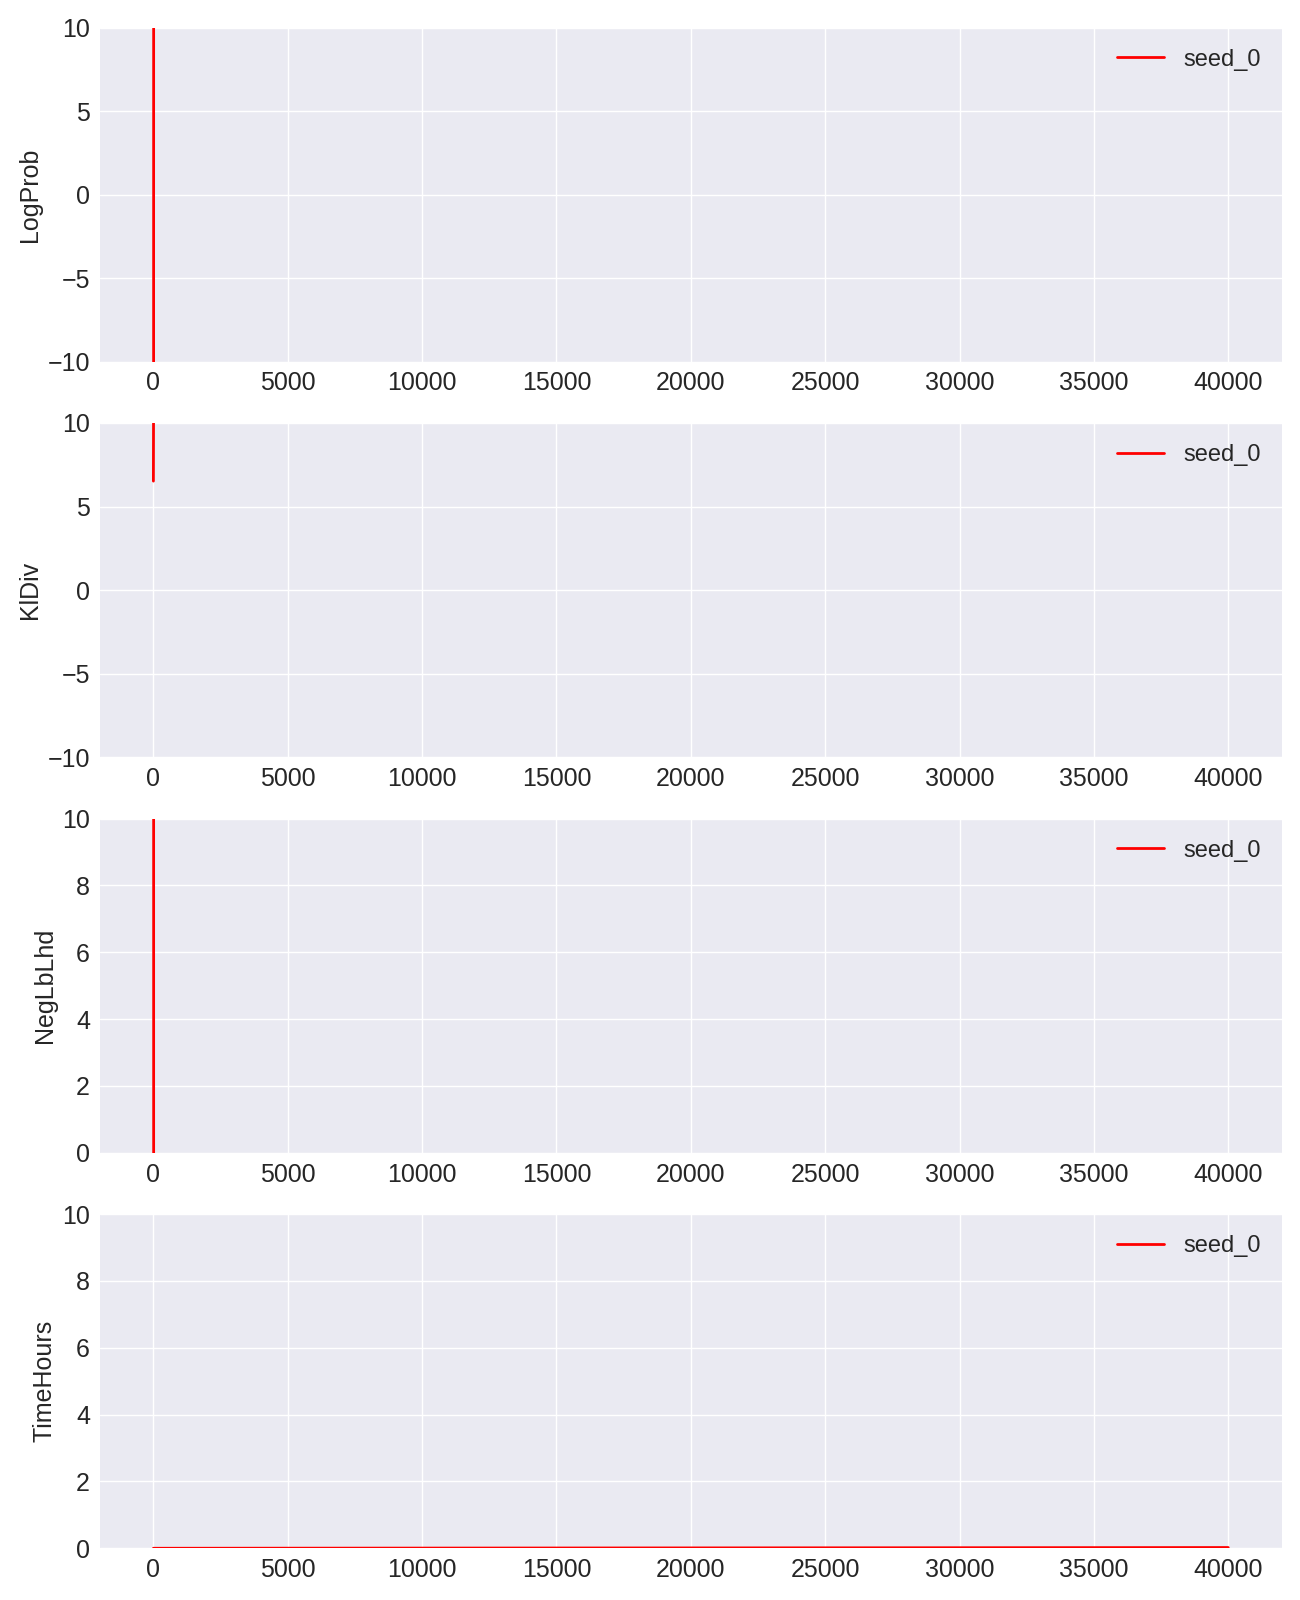
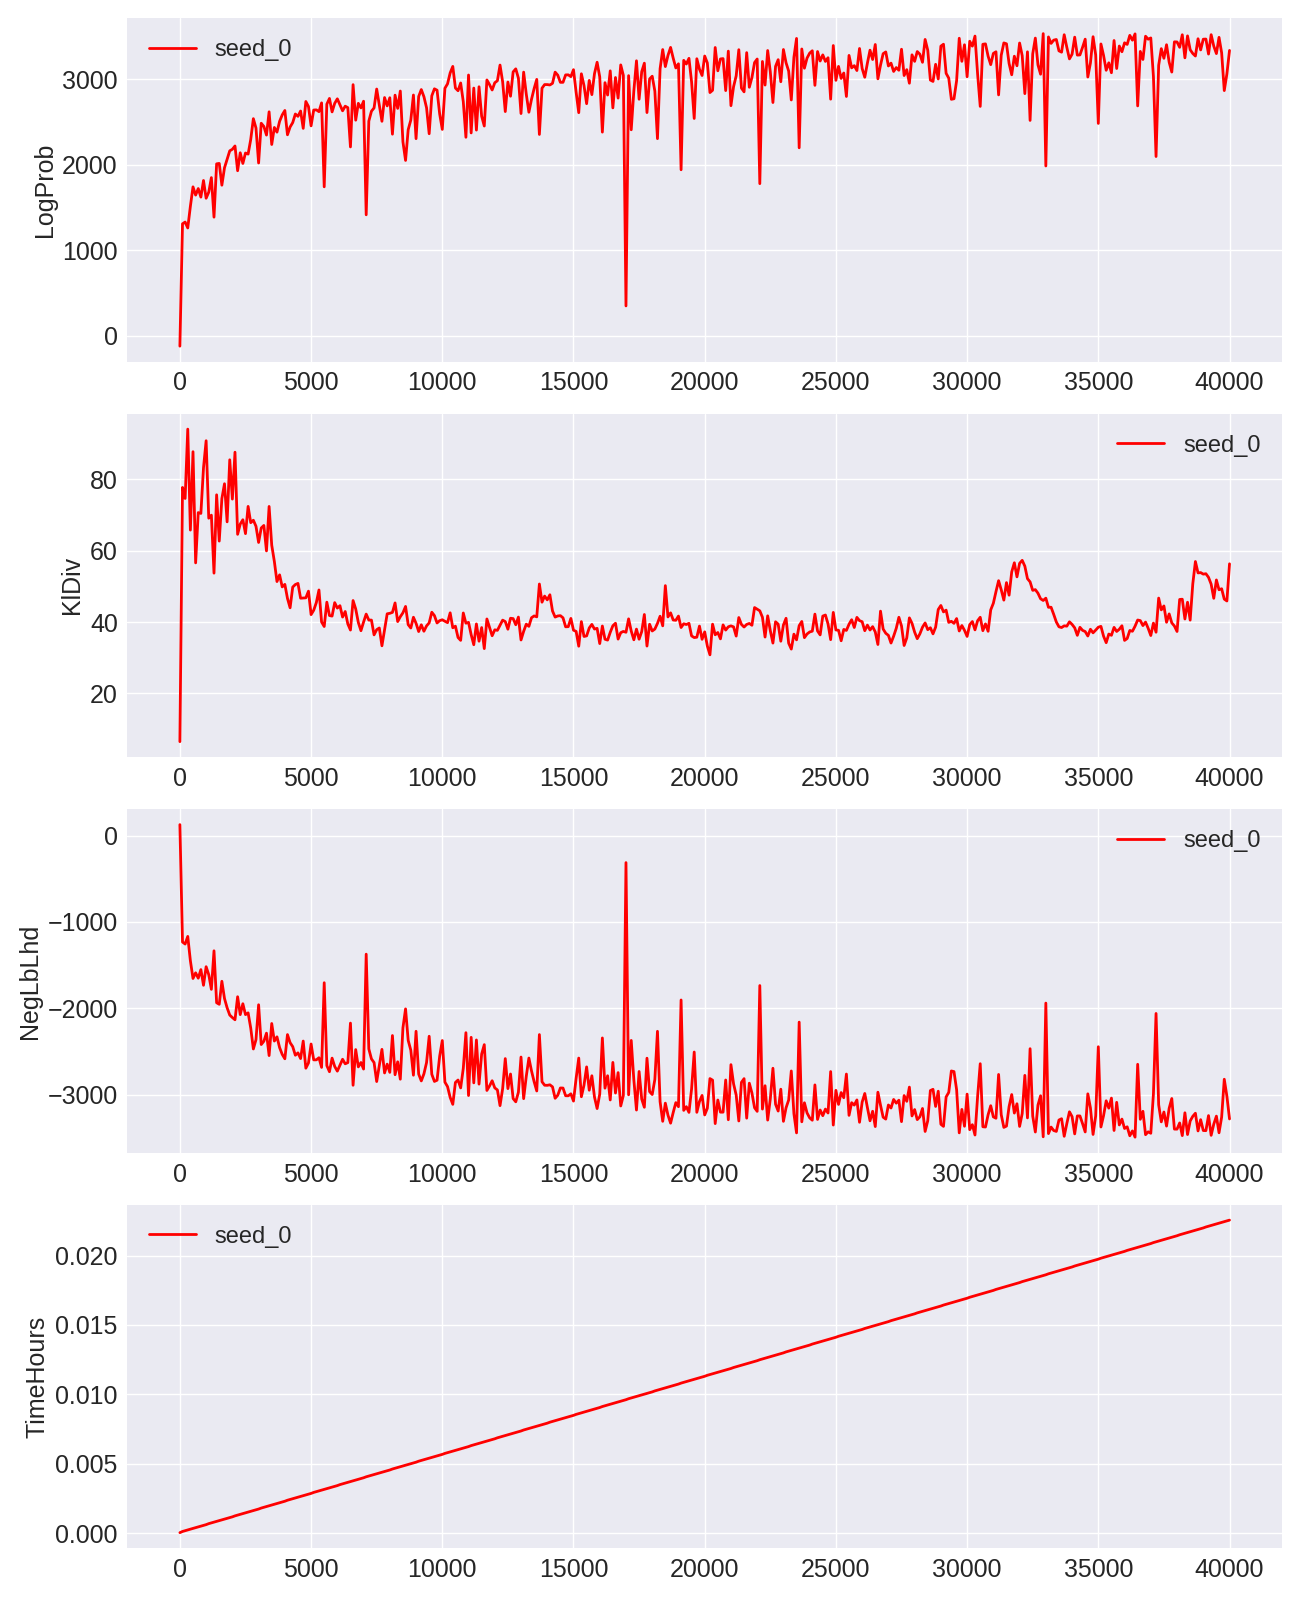
Fixed figure

diff --git a/vae/plot.py b/vae/plot.py
@@ -56,10 +56,10 @@ def plot_one_directory(args, dirnames, figname):
             axes[i].tick_params(axis='y', labelsize=tick_size)
             axes[i].legend(loc='best', ncol=2, prop={'size':legend_size})
 
-        axes[0].set_ylim([-10,10])
-        axes[1].set_ylim([-10,10])
-        axes[2].set_ylim([0,10])
-        axes[3].set_ylim([0,10])
+        #axes[0].set_ylim([-10,10])
+        #axes[1].set_ylim([-10,10])
+        #axes[2].set_ylim([0,10])
+        #axes[3].set_ylim([0,10])
 
     plt.tight_layout()
     plt.savefig(figname)
